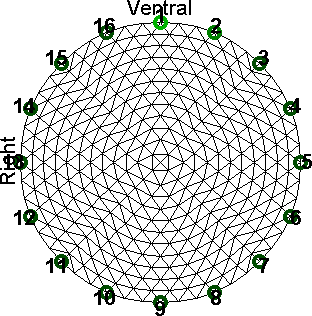
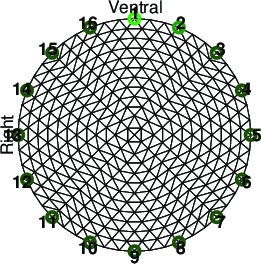
convert to print_convert
git-svn-id: svn+ssh://svn.code.sf.net/p/eidors3d/code/trunk@2765 82006732-fb7e-4a22-9f28-86a212cce563

diff --git a/htdocs/tutorial/lung_EIT/if_peep_trial01.m b/htdocs/tutorial/lung_EIT/if_peep_trial01.m
@@ -13,4 +13,4 @@ set(hh,'Rotation',90,'HorizontalAlignment','Center');
 hh=text(0,+1.1,'Ventral');
 set(hh,'HorizontalAlignment','Center');
 
-print -r150 -dpng if_peep_trial01.png
+print_convert if_peep_trial01.png

diff --git a/htdocs/tutorial/lung_EIT/if_peep_trial04.m b/htdocs/tutorial/lung_EIT/if_peep_trial04.m
@@ -23,4 +23,4 @@ for loop = 1:2;
    ylabel('normalized \Delta Z')
 end
 
-print -dpng -r150 if_peep_trial04.png
+print_convert if_peep_trial04.png '-density 175'

diff --git a/htdocs/tutorial/lung_EIT/if_peep_trial03.m b/htdocs/tutorial/lung_EIT/if_peep_trial03.m
@@ -16,4 +16,4 @@ for yl = 1:4;
 end
 
 axis off
-print -r100 -dpng if_peep_trial03.png
+print_convert if_peep_trial03.png
